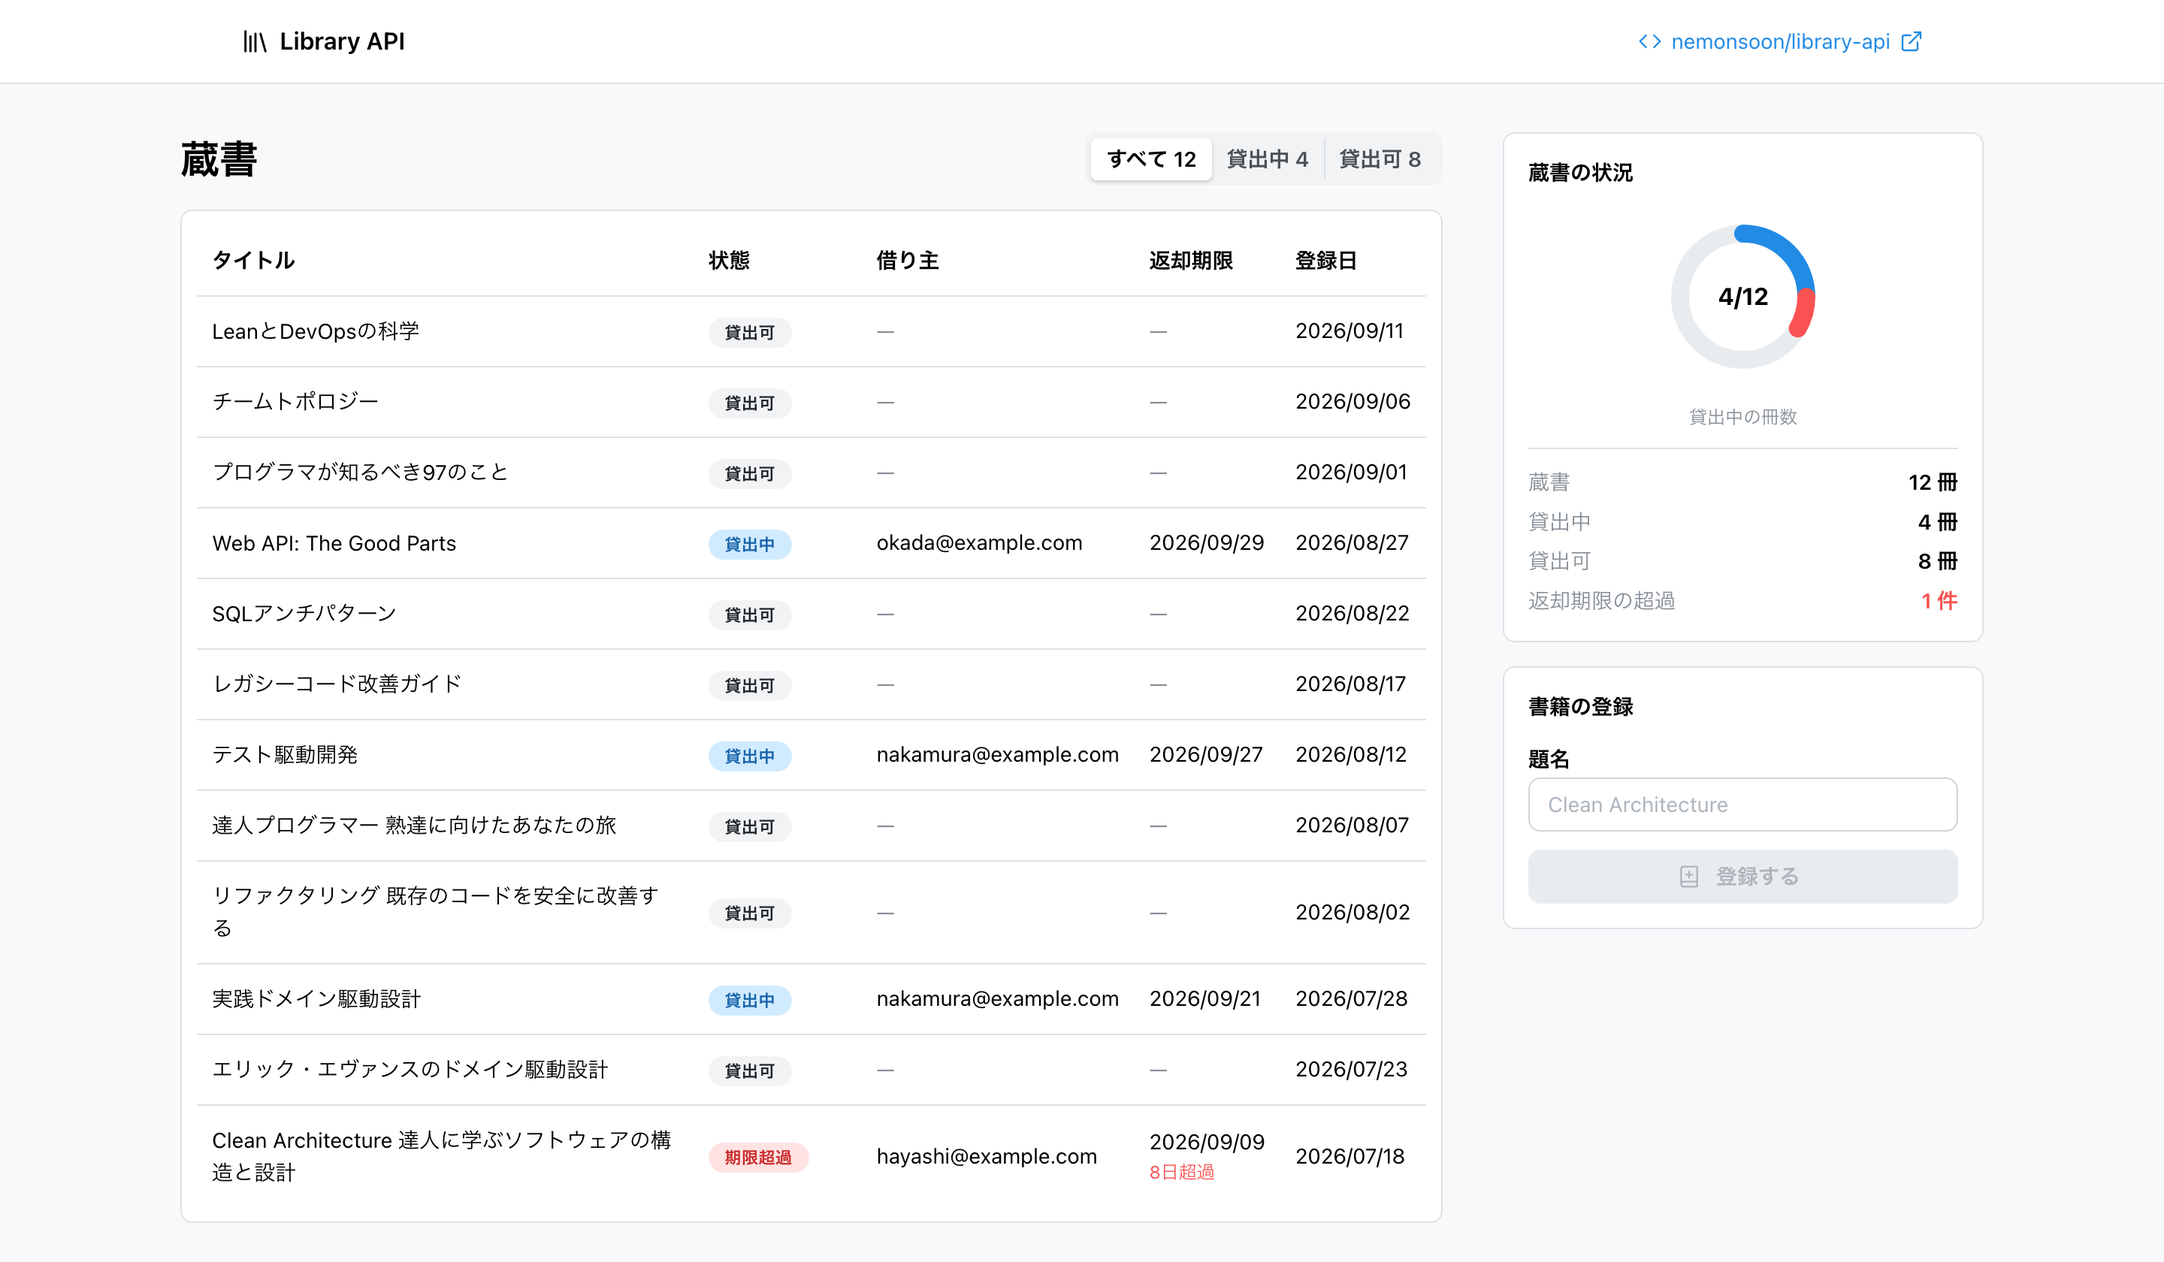
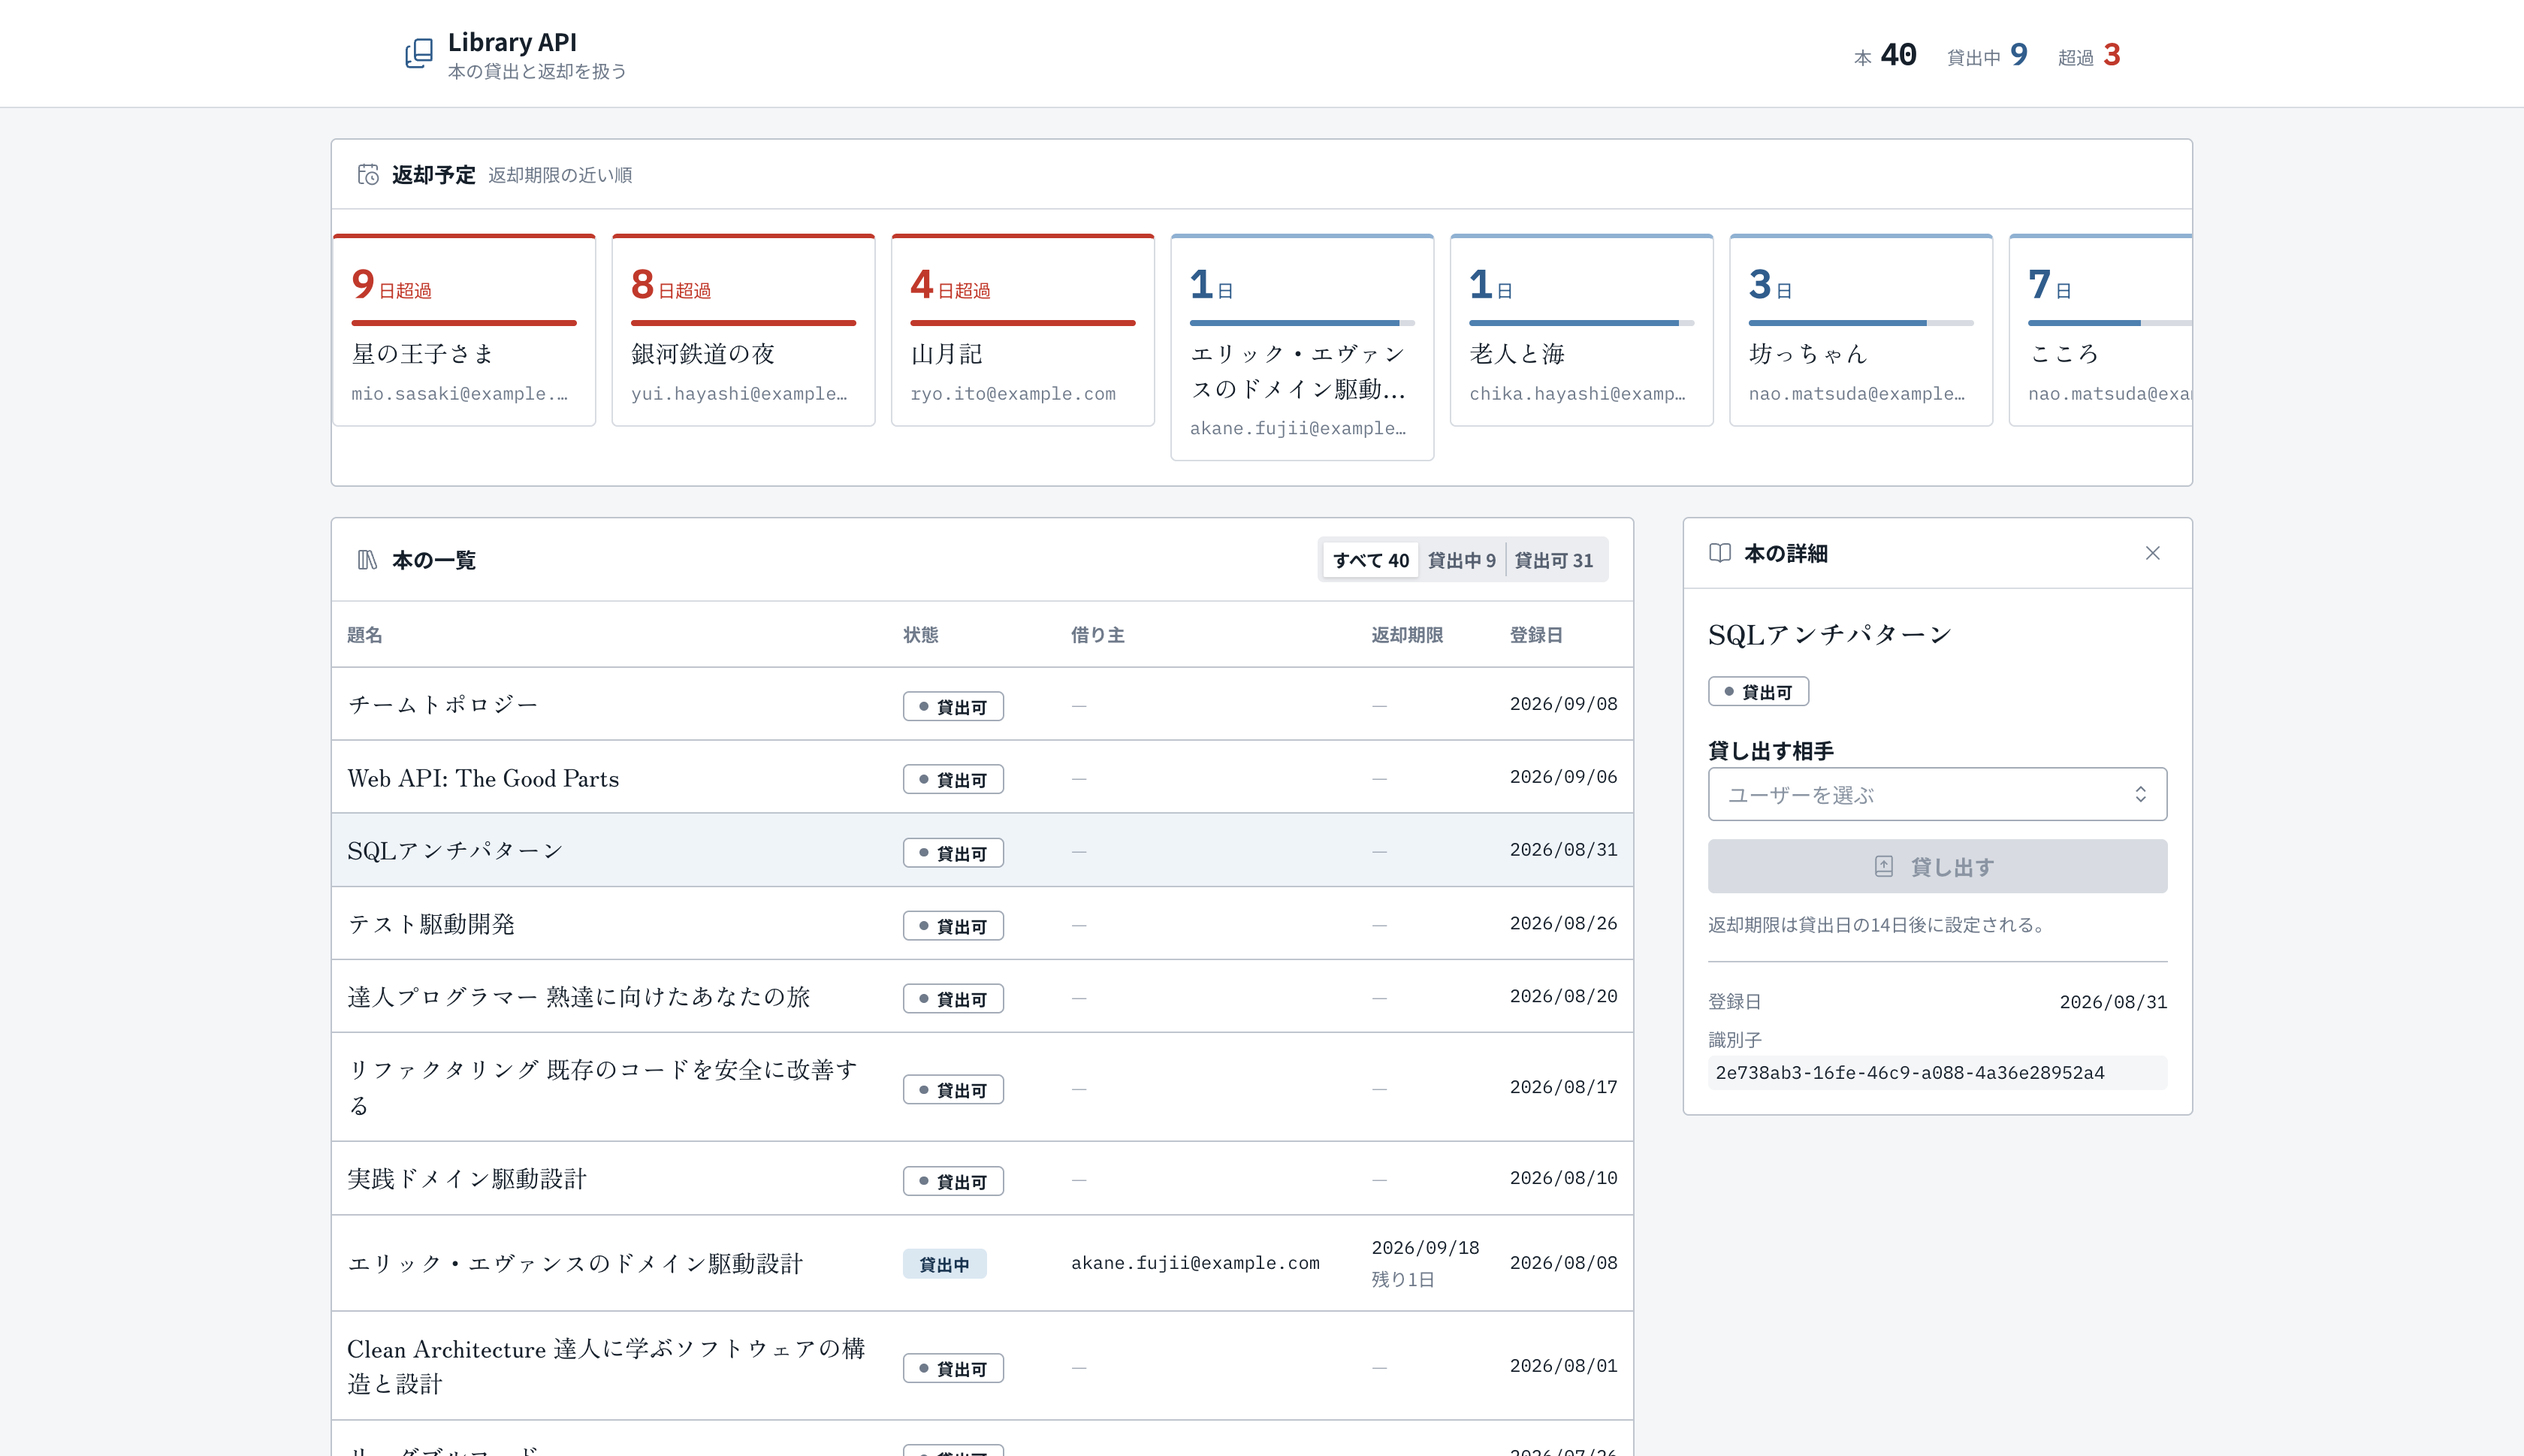
docs: replace the screenshot and level the return cards
Shoot the readme picture again now that the page leads with the return
dates and the shelf holds forty books.

Reserve two lines for the title on every return card. A card whose title
fitted on one line ended shorter than the one beside it, so the row of
cards had a ragged bottom edge.

diff --git a/apps/web/src/styles/DueSoon.module.css b/apps/web/src/styles/DueSoon.module.css
@@ -87,9 +87,15 @@
 	line-height: var(--mantine-line-height-sm);
 	display: -webkit-box;
 	-webkit-box-orient: vertical;
-	-webkit-line-clamp: 2;
-	line-clamp: 2;
+	-webkit-line-clamp: var(--app-due-title-lines);
+	line-clamp: var(--app-due-title-lines);
 	overflow: hidden;
+	/* 題名が1行でも2行分の高さを取る。取らないと、隣り合う1枚ごとに下端がずれる。 */
+	min-height: calc(
+		var(--mantine-font-size-md) *
+		var(--mantine-line-height-sm) *
+		var(--app-due-title-lines)
+	);
 }
 
 .borrower {

diff --git a/apps/web/src/styles/tokens.css b/apps/web/src/styles/tokens.css
@@ -25,6 +25,8 @@
 
 	/* 返却予定の1枚の幅。題名が2行に収まり、横に5枚前後が並ぶ寸法。 */
 	--app-due-card-width: 176px;
+	/* 返却予定の題名が占める行数。どの1枚も同じ高さになるよう、行数を先に決める。 */
+	--app-due-title-lines: 2;
 	/* 貸出期間の経過を表す帯の高さ。 */
 	--app-due-track-height: 4px;
 	/* 返却予定の1枚の上端に引く線。状態の色をここで見せる。 */
